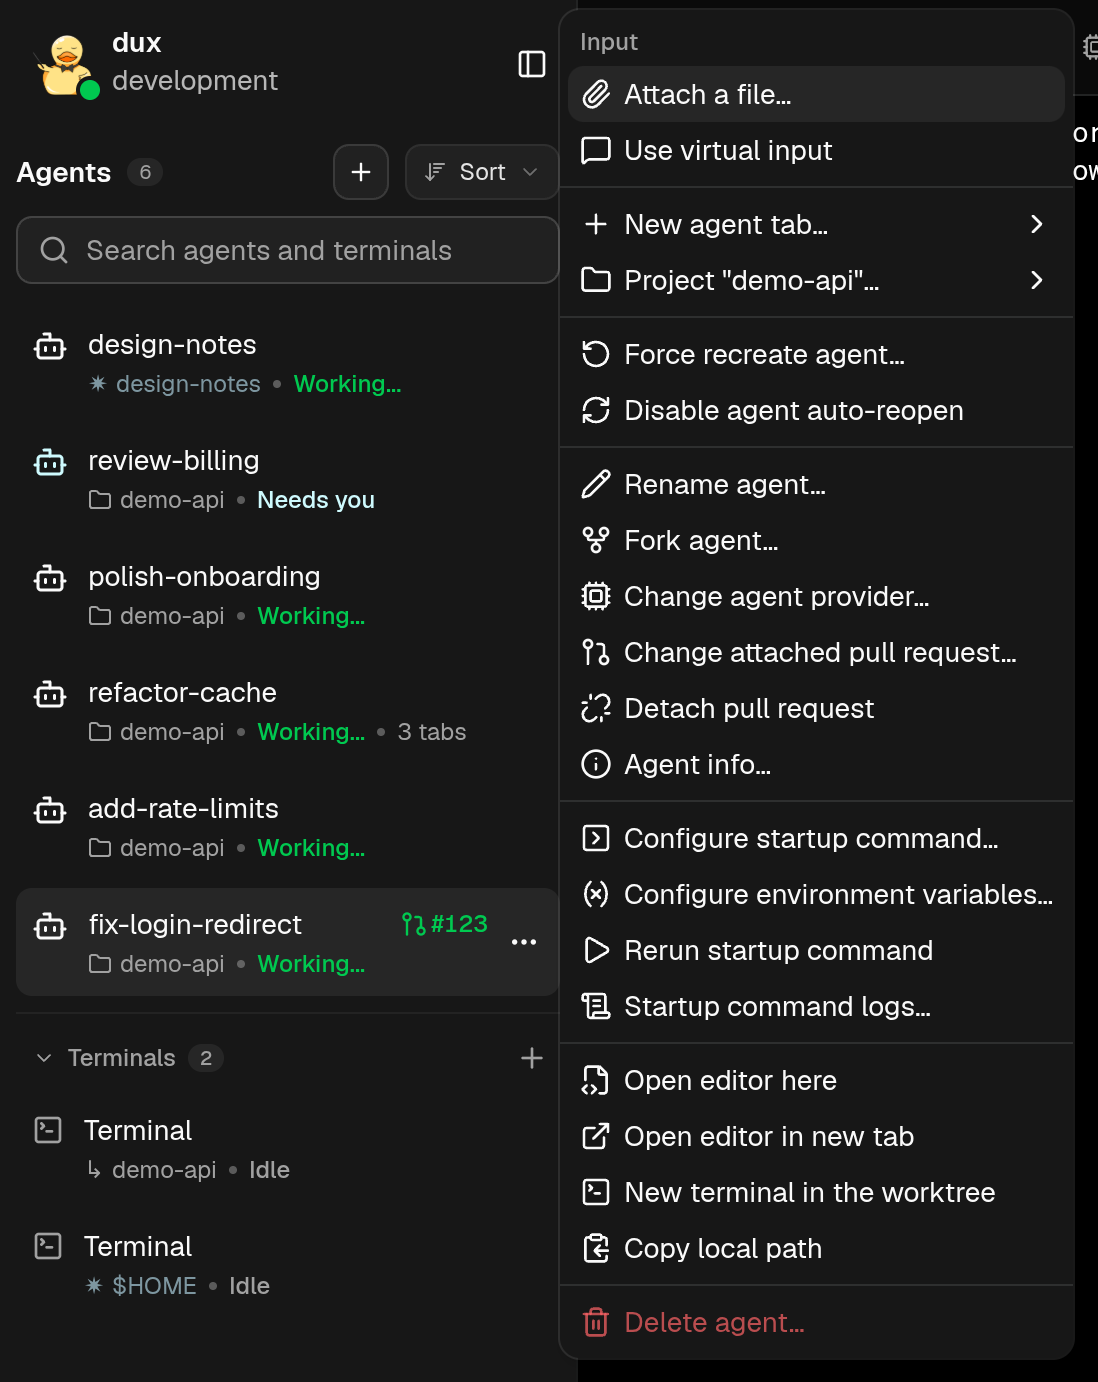
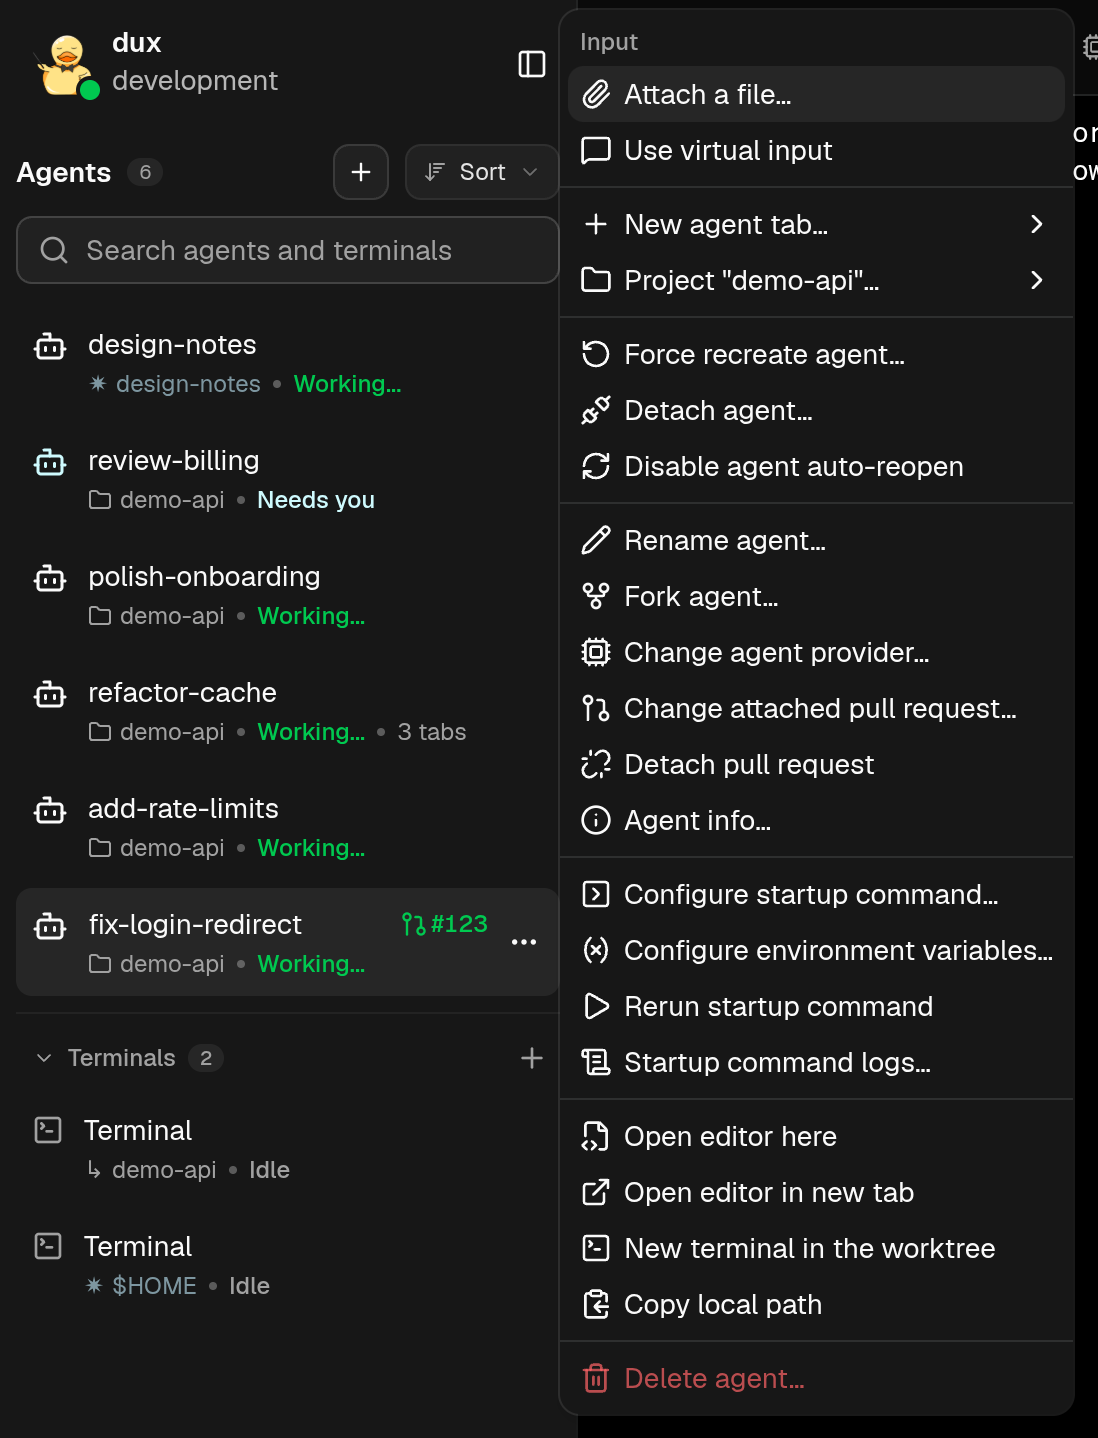
Reshoot the agent row menu with the Detach agent entry in it

diff --git a/website/docs/web-agents.md b/website/docs/web-agents.md
@@ -130,7 +130,7 @@ its own name), change its provider, view its info, inspect its project's environ
 it off), which is the same group the pane's own `⋯` carries, then the agent's actions below
 it.
 
-![An agent's menu open beside its sidebar row: an Input group with Attach a file and Use virtual input at the top, then rename, fork, change provider, editor and delete actions.](/screens/agent-session-menu.png)
+![An agent's menu open beside its sidebar row: an Input group with Attach a file and Use virtual input at the top, then force recreate, detach and auto-reopen, then rename, fork, change provider, editor and delete actions.](/screens/agent-session-menu.png)
 
 **Change provider** and **Force recreate** are the two knobs around resume:
 
